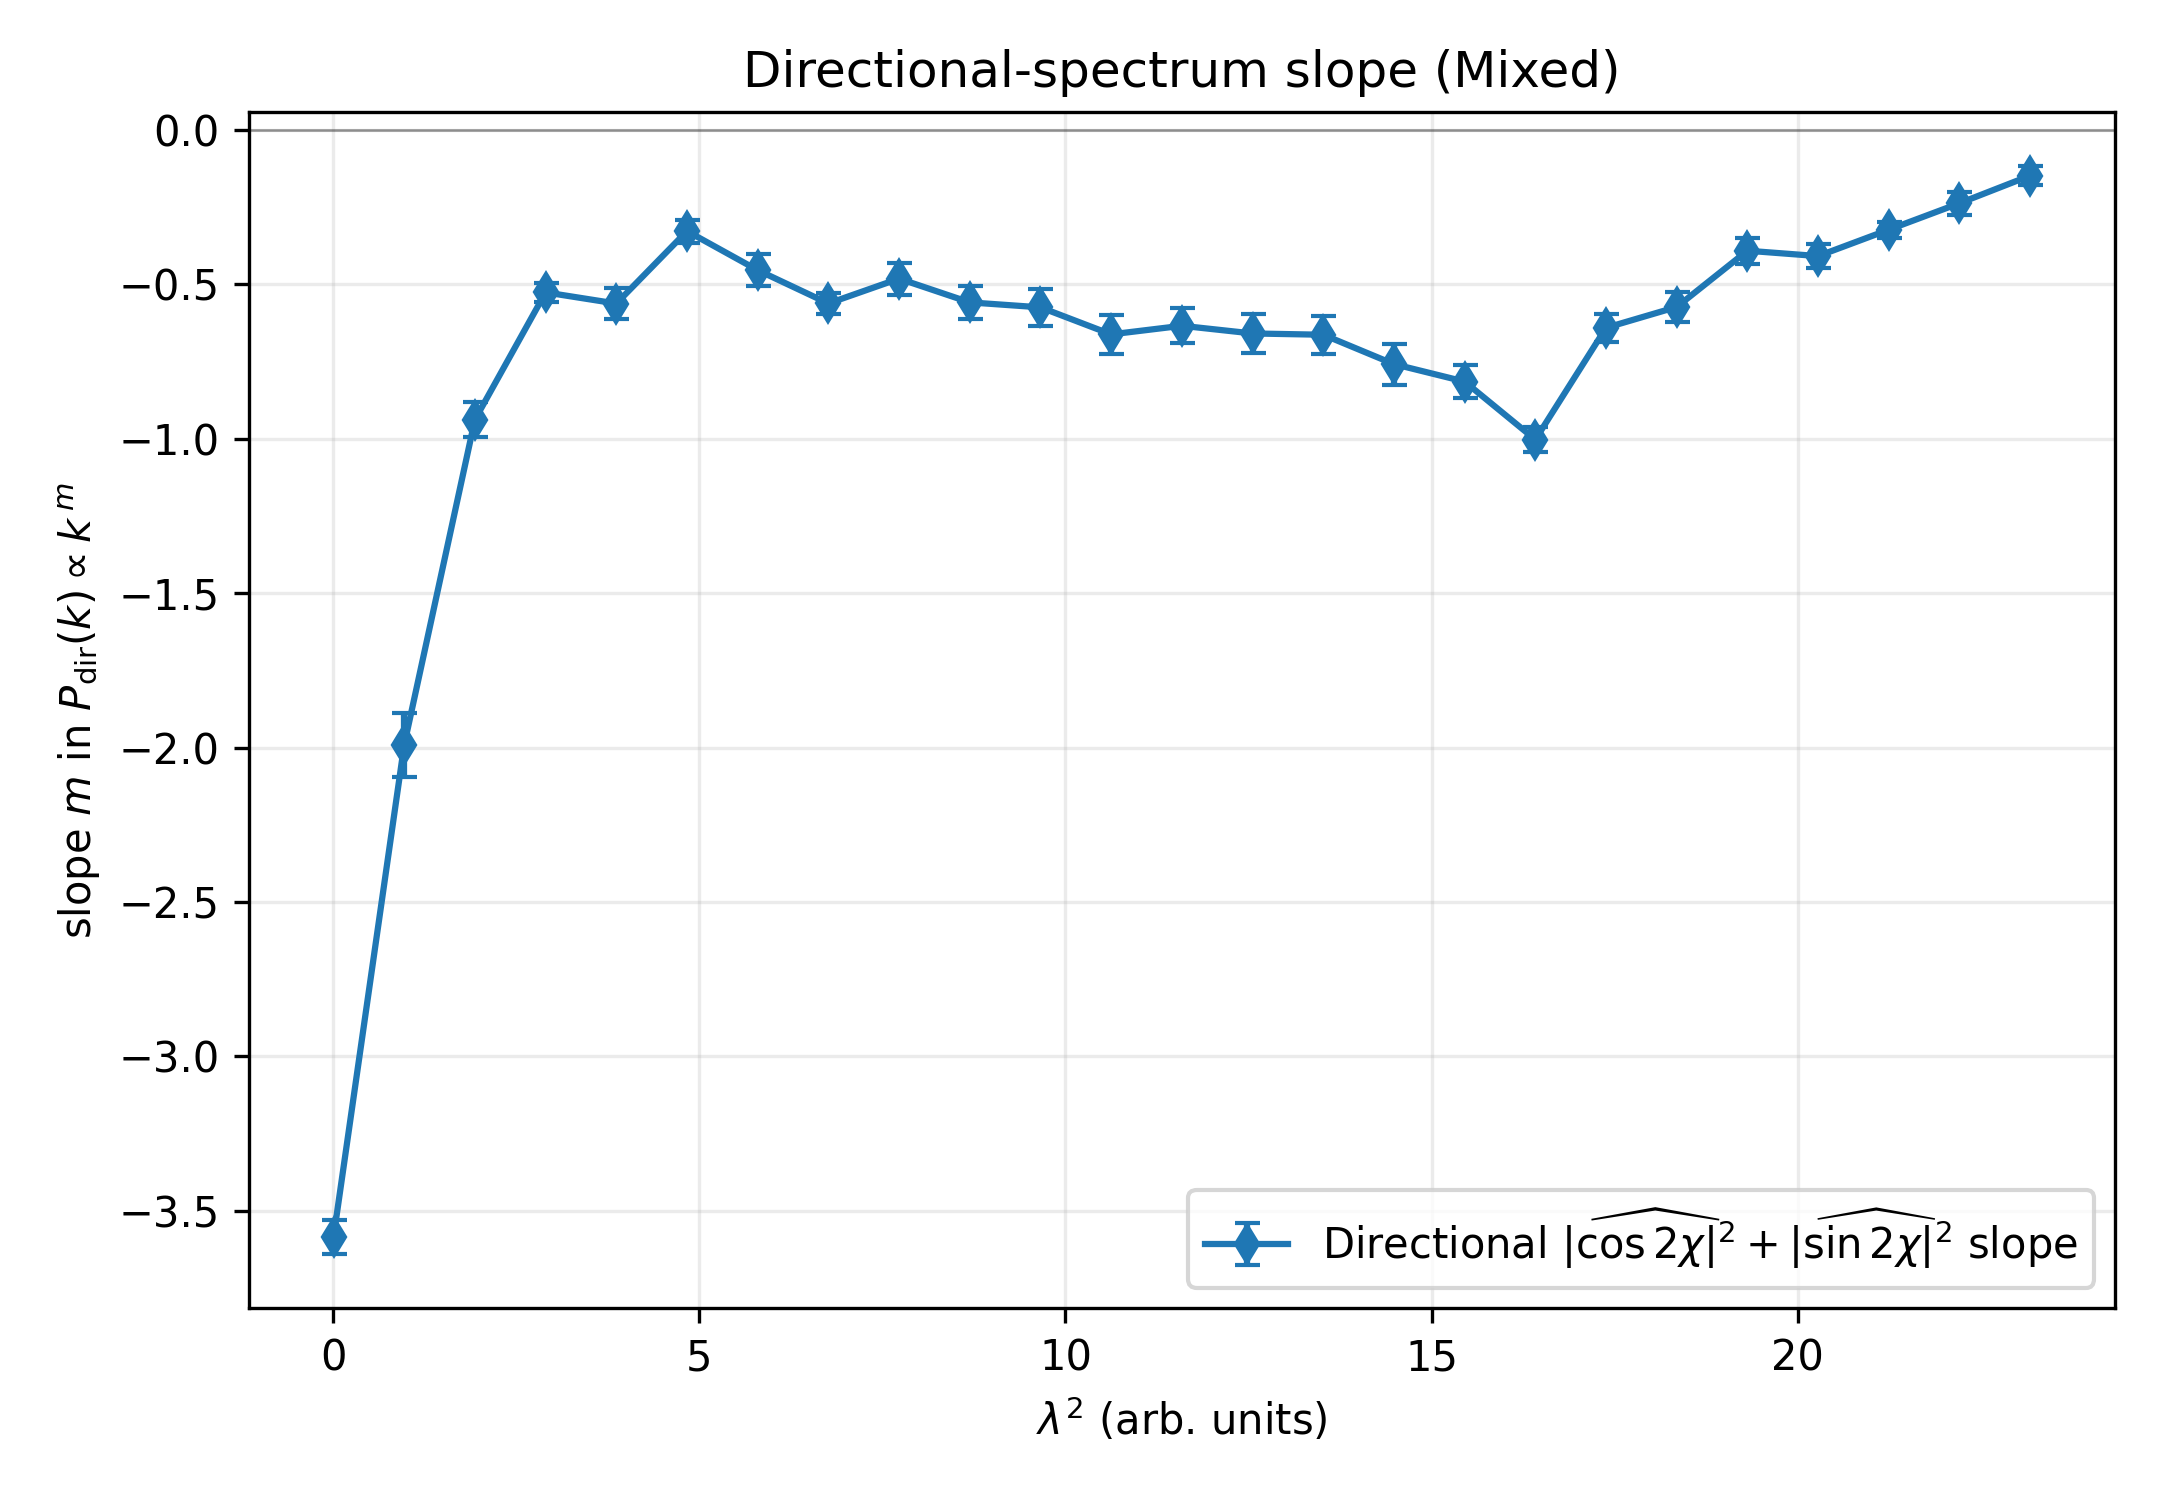
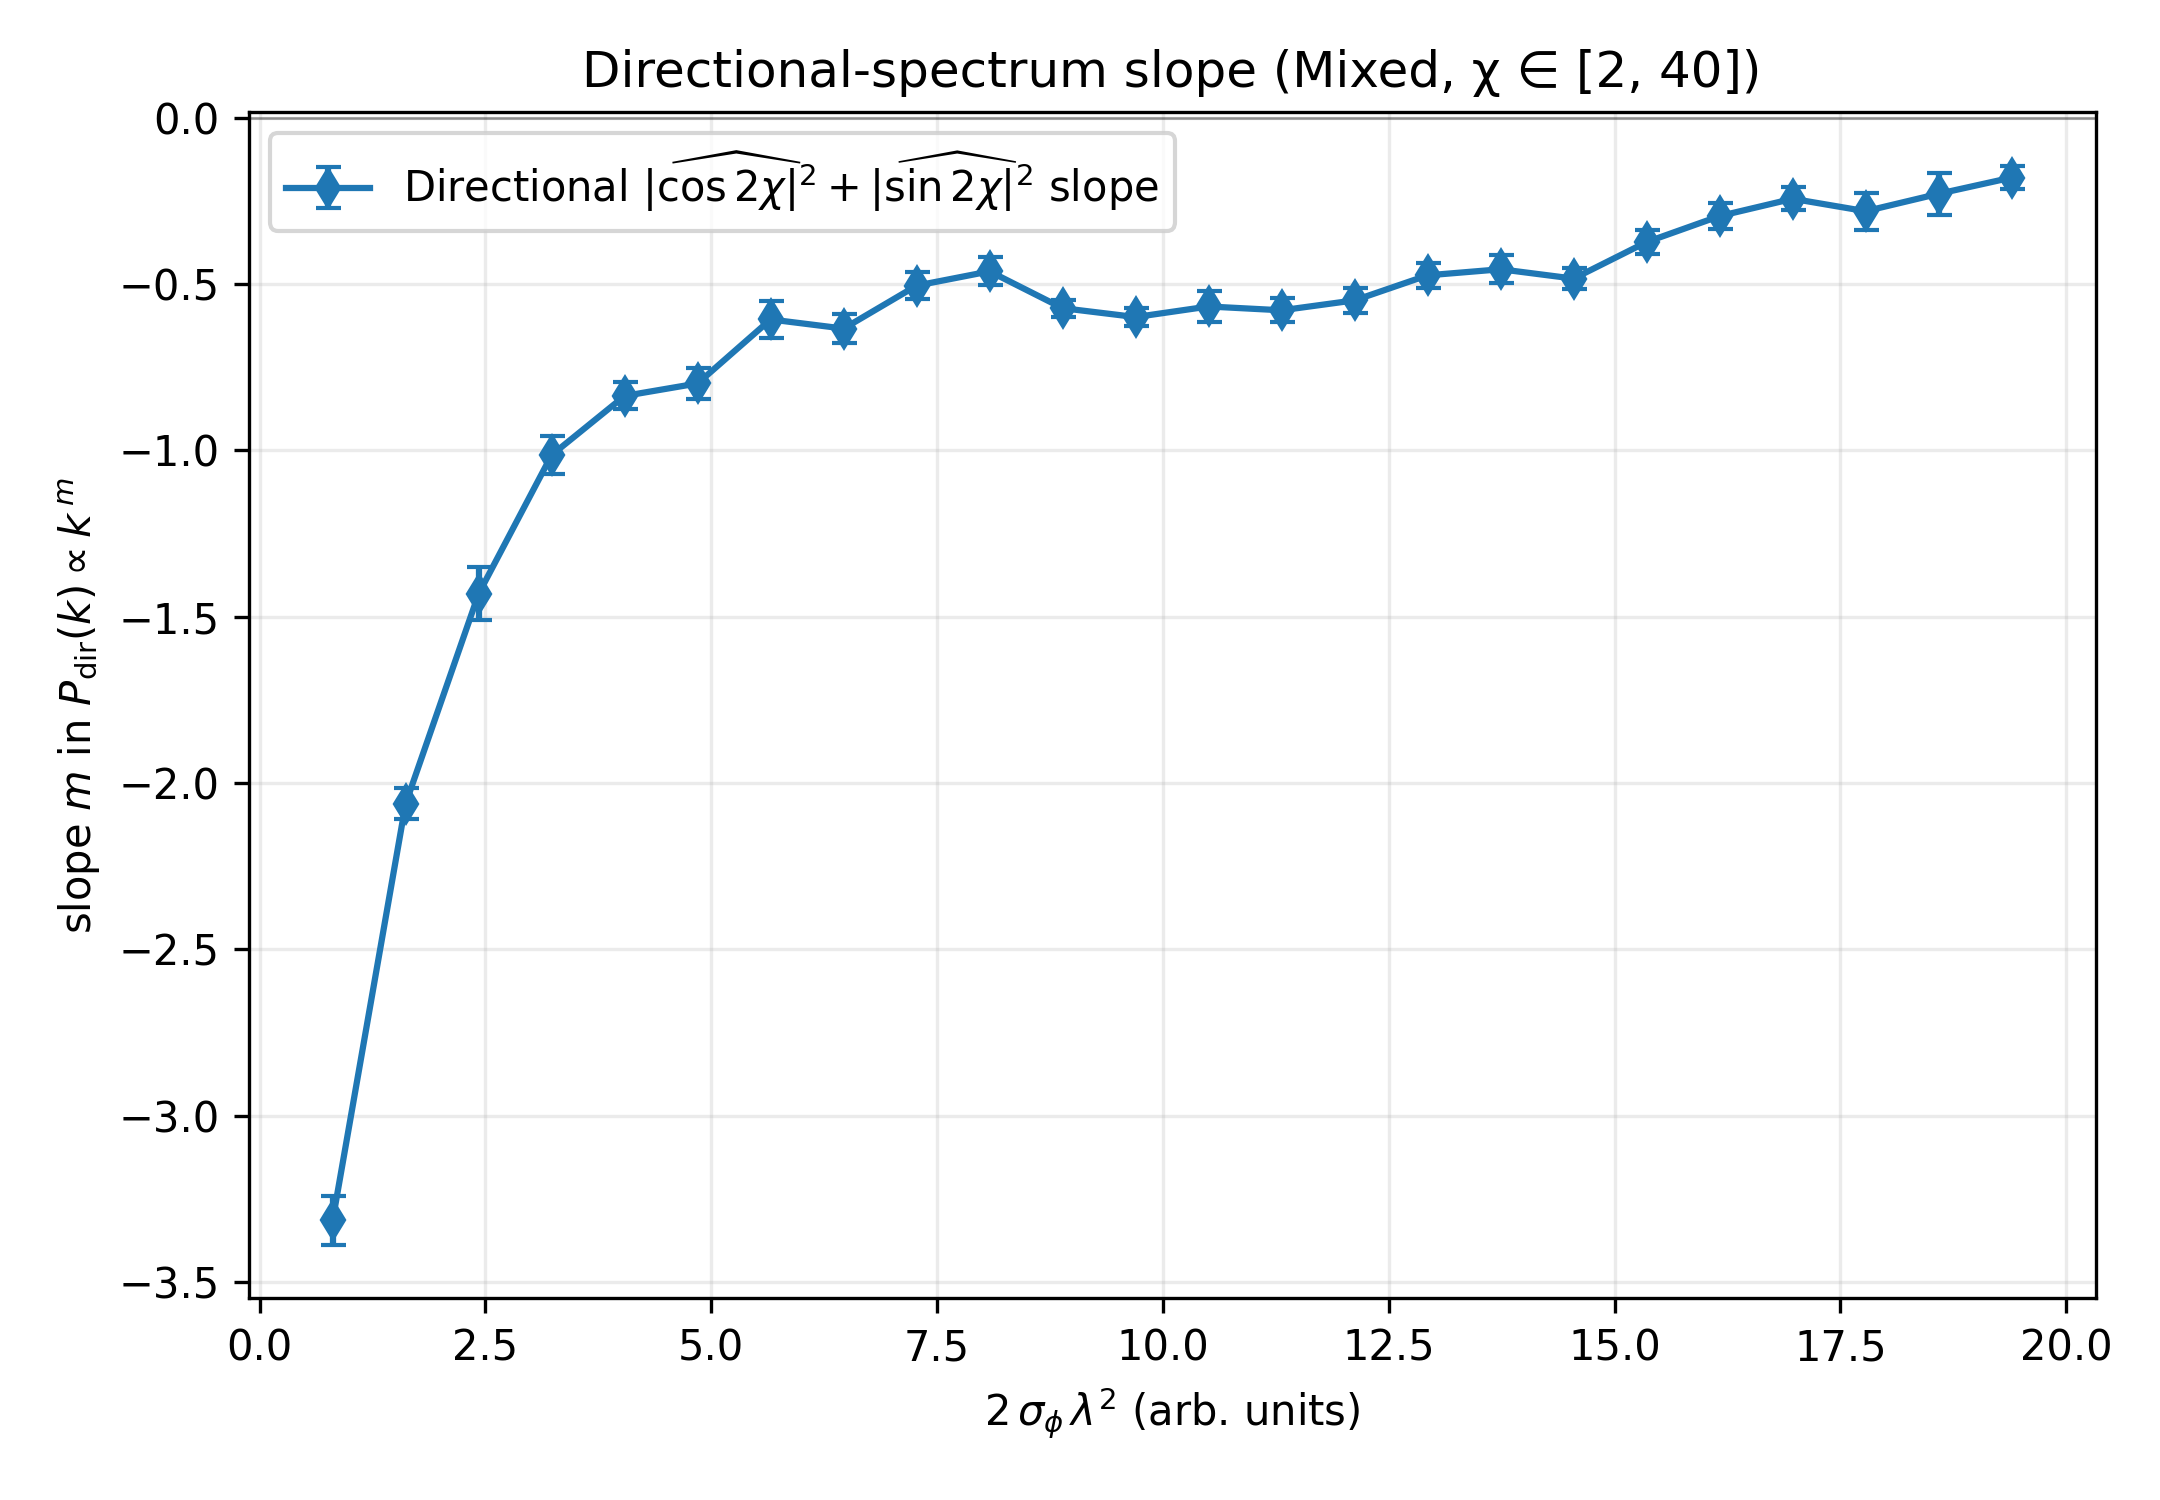
Plotting directional spectrum vs lambda separately

diff --git a/compare_measures/run_directional_spectrum_vs_lambda.py b/compare_measures/run_directional_spectrum_vs_lambda.py
@@ -1,0 +1,216 @@
+import os
+import sys
+import numpy as np
+
+# Make project root importable
+THIS_DIR = os.path.dirname(os.path.abspath(__file__))
+PROJECT_ROOT = os.path.dirname(THIS_DIR)
+if PROJECT_ROOT not in sys.path:
+    sys.path.insert(0, PROJECT_ROOT)
+
+from compare_measures.pfa_and_derivative_lp_16_like import (
+    FieldKeys,
+    PFAConfig,
+    load_fields,
+    polarized_emissivity_lp16,
+    faraday_density,
+    sigma_phi_total,
+    compute_faraday_regime,
+    dir_slopes_vs_lambda,
+    plot_dir_slopes_vs_lambda,
+    fit_log_slope_with_bounds,
+    H5_PATH as DEFAULT_H5_PATH,
+)
+
+
+def build_phi_and_pi(h5_path: str, cfg: PFAConfig):
+    keys = FieldKeys()
+    Bx, By, Bz, ne = load_fields(h5_path, keys)
+    Pi = polarized_emissivity_lp16(Bx, By, gamma=cfg.gamma)
+
+    if cfg.los_axis == 0:
+        Bpar = Bx
+    elif cfg.los_axis == 1:
+        Bpar = By
+    else:
+        Bpar = Bz
+
+    phi = faraday_density(ne, Bpar, C=1.0)
+
+    if cfg.use_auto_faraday:
+        Nz = Bx.shape[cfg.los_axis]
+        dz = 1.0 / float(Nz)
+        Phi_tot = np.sum(np.moveaxis(phi, cfg.los_axis, 0), axis=0) * dz
+        sigma_Phi = float(Phi_tot.std())
+        C = 1.0 / (max(cfg.lam2_break_target, 1e-30) * sigma_Phi) if sigma_Phi > 0 else 1.0
+        phi *= C
+        print(f"[dir] σΦ={sigma_Phi:.3g}, C={C:.3g}")
+    else:
+        phi *= cfg.faraday_const
+        sigma_Phi = sigma_phi_total(phi, cfg.los_axis)
+        print(f"[dir] Using faraday_const={cfg.faraday_const}; σΦ={sigma_Phi:.3g}")
+
+    return Pi, phi, sigma_Phi
+
+
+def main():
+    import argparse
+
+    parser = argparse.ArgumentParser(description="Directional spectrum slopes vs lambda")
+    parser.add_argument("--h5", default=DEFAULT_H5_PATH, help="Path to HDF5 with fields")
+    parser.add_argument("--geometry", choices=["mixed", "separated"], default="mixed")
+    parser.add_argument("--every", type=int, default=2, help="Use every Nth lambda for speed")
+    parser.add_argument("--ring_bins", type=int, default=48)
+    parser.add_argument("--pad", type=int, default=1)
+    parser.add_argument("--k_min", type=float, default=6.0)
+    parser.add_argument("--min_counts", type=int, default=10)
+    parser.add_argument("--out", default=None, help="Output PNG path; defaults into lp2016_outputs/")
+    parser.add_argument("--sweep", action="store_true", help="Run λ² sweep like run_spatial_psa_comparison.py")
+    args = parser.parse_args()
+
+    cfg = PFAConfig()
+
+    print("Building Pi and phi...")
+    Pi, phi, sigmaPhi0 = build_phi_and_pi(args.h5, cfg)
+    sigmaPhi0=1.9101312160491943
+    if args.sweep:
+        # Use same settings as run_spatial_psa_comparison.py
+        psa_kwargs = dict(ring_bins=48, pad=1, apodize=True, k_min=6.0, min_counts_per_ring=10)
+        fit_bounds = dict(kmin=4, kmax=25)
+        
+        # Define λ² grid for sweep so that 1 ≤ (σ_φ λ²) ≤ 20
+        # This implies 2σ_φλ² (χ) spans [2, 40] on the x-axis
+        lam2_min = 0.0 / (sigmaPhi0)
+        lam2_max = 20.0 / (sigmaPhi0)
+        n_points = 100
+        lam2_values = np.linspace(lam2_min, lam2_max, n_points)
+        
+        print(f"\nλ² sweep: {lam2_min:.3f} to {lam2_max:.3f} ({n_points} points)")
+        print(f"Corresponding σ_φλ² range: {sigmaPhi0*lam2_min:.2f} to {sigmaPhi0*lam2_max:.2f}")
+        print(f"Corresponding χ=2σ_φλ² range: {2*sigmaPhi0*lam2_min:.2f} to {2*sigmaPhi0*lam2_max:.2f}")
+        
+        # Initialize arrays to store results
+        chi_values = []
+        slopes_dir = []
+        errors_dir = []
+        
+        # Sweep over λ² values
+        print(f"\nComputing directional spectrum slopes for each λ²...")
+        for i, lam2 in enumerate(lam2_values):
+            print(i+1, "/", n_points)
+            lam = np.sqrt(lam2)
+            chi = 2.0 * sigmaPhi0 * lam2
+            
+            print(f"  λ²={lam2:.3f}, χ={chi:.2f} ({i+1}/{n_points})")
+            
+            # Build P_map for this λ
+            if args.geometry == "mixed":
+                from pfa_and_derivative_lp_16_like import P_map_mixed
+                P_map = P_map_mixed(Pi, phi, lam, cfg)
+            else:
+                from pfa_and_derivative_lp_16_like import P_map_separated
+                P_map = P_map_separated(Pi, phi, lam, cfg)
+            
+            # Compute directional spectrum
+            from pfa_and_derivative_lp_16_like import directional_spectrum_of_map
+            k_dir, Ek_dir = directional_spectrum_of_map(P_map, **psa_kwargs)
+            
+            # Fit slope
+            mDir, aDir, eDir, _ = fit_log_slope_with_bounds(k_dir, Ek_dir, **fit_bounds)
+            
+            # Store results
+            chi_values.append(chi)
+            slopes_dir.append(mDir)
+            errors_dir.append(eDir)
+            
+            print(f"    Directional slope: {mDir:.2f}±{eDir:.2f}")
+        
+        # Save results to NPZ
+        output_dir = os.path.join(THIS_DIR, "lp2016_outputs")
+        os.makedirs(output_dir, exist_ok=True)
+        npz_path = os.path.join(output_dir, f"dir_slopes_vs_chi_{args.geometry}_data.npz")
+        np.savez(
+            npz_path,
+            lam2_values=np.array(lam2_values),
+            chi_values=np.array(chi_values),
+            slopes_dir=np.array(slopes_dir),
+            errors_dir=np.array(errors_dir),
+            psa_kwargs=psa_kwargs,
+            fit_bounds=fit_bounds,
+            sigmaPhi0=np.array(sigmaPhi0),
+            faraday_const=np.array(cfg.faraday_const),
+            los_axis=np.array(cfg.los_axis),
+            gamma=np.array(cfg.gamma),
+        )
+        print(f"\nSaved sweep data to: {npz_path}")
+        
+        # Create slope vs χ plot
+        print(f"\nCreating slope vs χ plot...")
+        import matplotlib.pyplot as plt
+        plt.figure(figsize=(10, 6))
+        plt.errorbar(chi_values, slopes_dir, yerr=errors_dir, fmt='d-', capsize=3, 
+                     label=f'Directional spectrum ({args.geometry})', color='green', alpha=0.7)
+        plt.xlabel('χ = 2σ_φ λ²')
+        plt.ylabel('Directional Spectrum Slope')
+        plt.title(f'Directional Spectrum Slope vs χ ({args.geometry.capitalize()} Geometry, χ ∈ [1, 20])')
+        plt.grid(True, alpha=0.3)
+        plt.legend()
+        
+        slope_plot_path = os.path.join(output_dir, f"dir_slopes_vs_chi_{args.geometry}.png")
+        plt.savefig(slope_plot_path, dpi=300, bbox_inches='tight')
+        print(f"Saving slope vs χ plot to: {slope_plot_path}")
+        
+        # Print summary
+        print(f"\n" + "="*70)
+        print(f"SUMMARY - DIRECTIONAL SPECTRUM SLOPES vs χ")
+        print(f"="*70)
+        print(f"Computed χ range: {min(chi_values):.2f} to {max(chi_values):.2f}")
+        print(f"Number of computed points: {len(chi_values)}")
+        print(f"Directional slopes range: {min(slopes_dir):.2f} to {max(slopes_dir):.2f}")
+        
+    else:
+        # Original single plot mode - restrict to 1 ≤ (σ_φ λ²) ≤ 20
+        lam2_min = 0.0 / (sigmaPhi0)
+        lam2_max = 20.0 / (sigmaPhi0)
+        lam2 = np.linspace(lam2_min, lam2_max, 100)  # uniform in λ² over the requested region
+        cfg.lam_grid = tuple(np.sqrt(lam2))
+        lam_list = cfg.lam_grid[:: max(1, int(args.every))]
+
+        print(f"Computing directional-spectrum slopes vs lambda ({args.geometry}) ...")
+        print(f"λ² range: {lam2_min:.3f} to {lam2_max:.3f}")
+        print(f"Corresponding σ_φλ² range: {sigmaPhi0*lam2_min:.2f} to {sigmaPhi0*lam2_max:.2f}")
+        print(f"Corresponding χ=2σ_φλ² range: {2*sigmaPhi0*lam2_min:.2f} to {2*sigmaPhi0*lam2_max:.2f}")
+        
+        lam_arr, mDir, eDir = dir_slopes_vs_lambda(
+            Pi,
+            phi,
+            cfg,
+            geometry=args.geometry,
+            lam_list=lam_list,
+            ring_bins=args.ring_bins,
+            pad=args.pad,
+            k_min=args.k_min,
+            min_counts_per_ring=args.min_counts,
+        )
+
+        print("Plotting...")
+        title = f"Directional-spectrum slope ({args.geometry.capitalize()}, χ ∈ [2, 40])"
+        # Pass sigma_phi so x-axis is χ = 2σ_φλ²
+        plot_dir_slopes_vs_lambda(lam_arr, mDir, eDir, x_is_lambda2=True, title=title, sigma_phi=sigmaPhi0)
+
+        out_dir = os.path.join(THIS_DIR, "lp2016_outputs")
+        os.makedirs(out_dir, exist_ok=True)
+        out_path = (
+            args.out
+            if args.out is not None
+            else os.path.join(out_dir, f"dir_slopes_vs_lambda_{args.geometry}.png")
+        )
+        import matplotlib.pyplot as plt
+        plt.savefig(out_path, dpi=300)
+        print(f"Saved: {out_path}")
+
+
+if __name__ == "__main__":
+    main()
+
+
